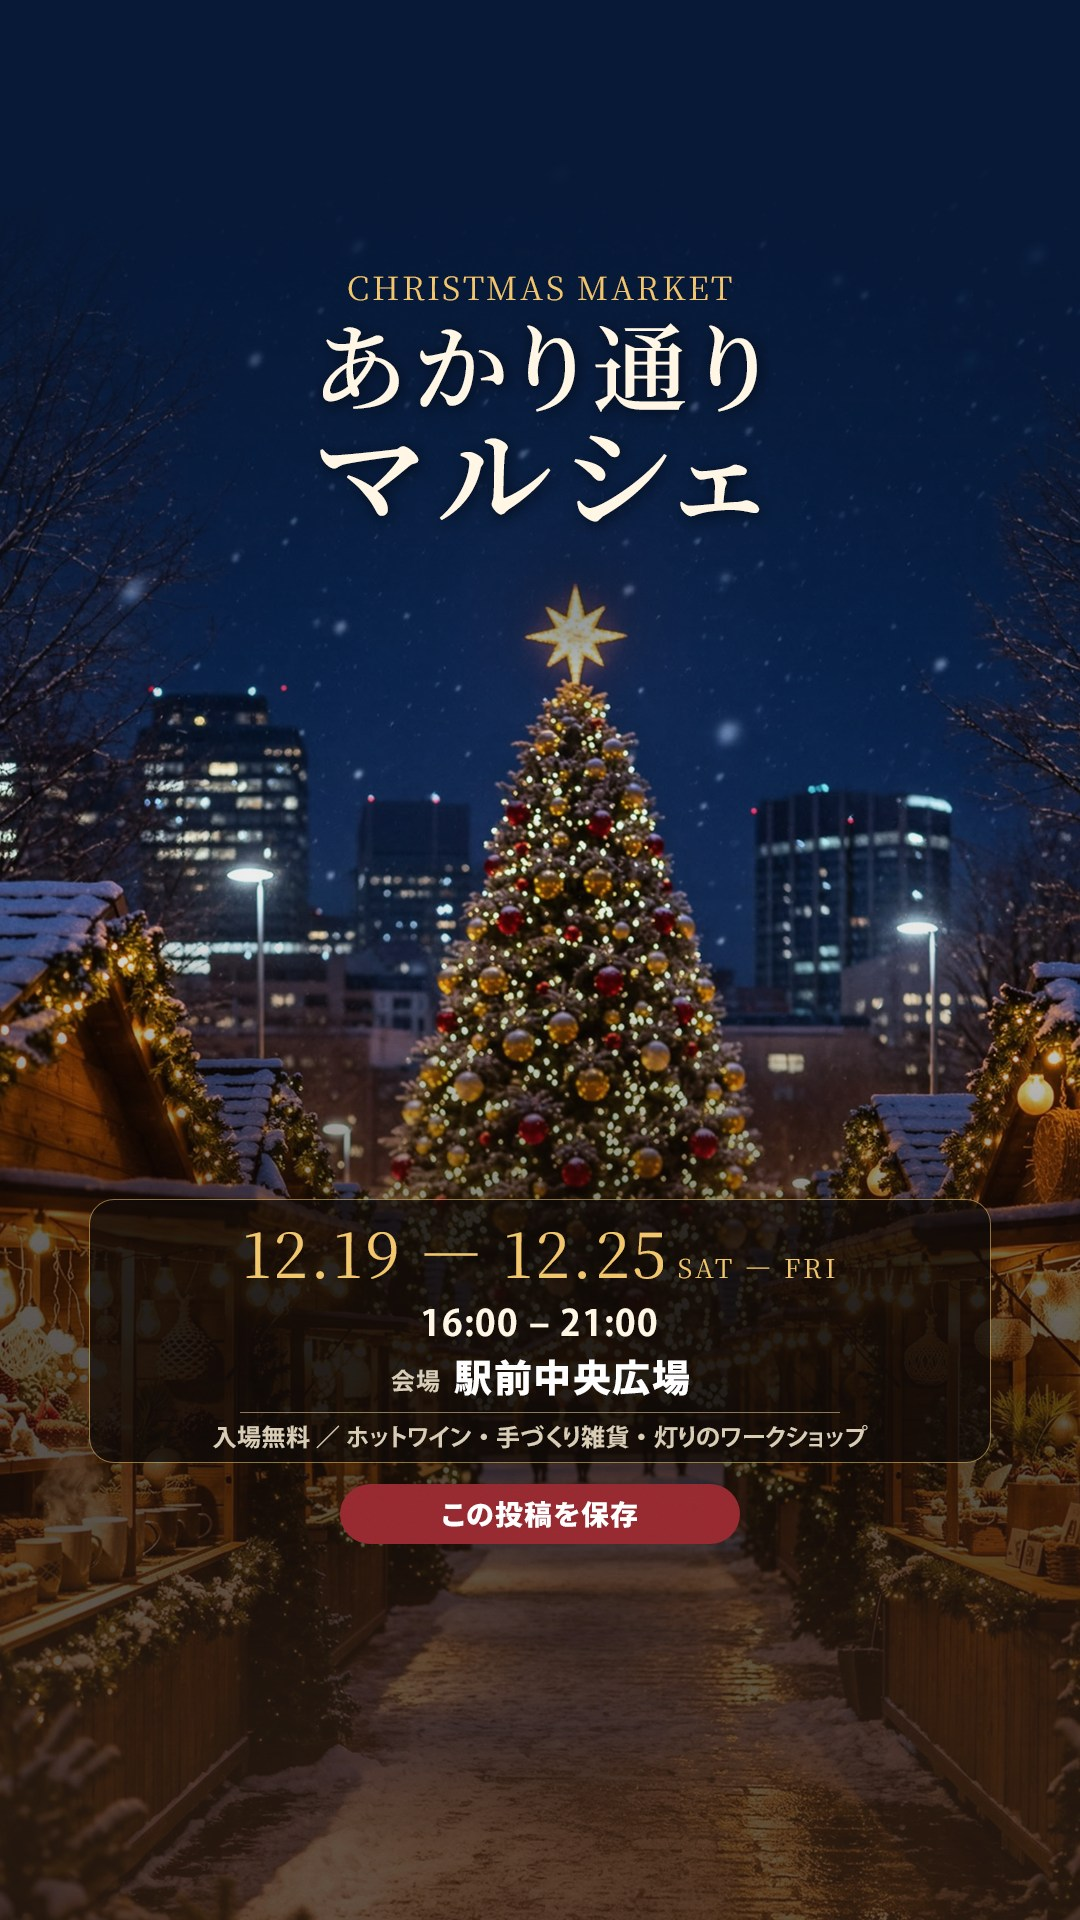
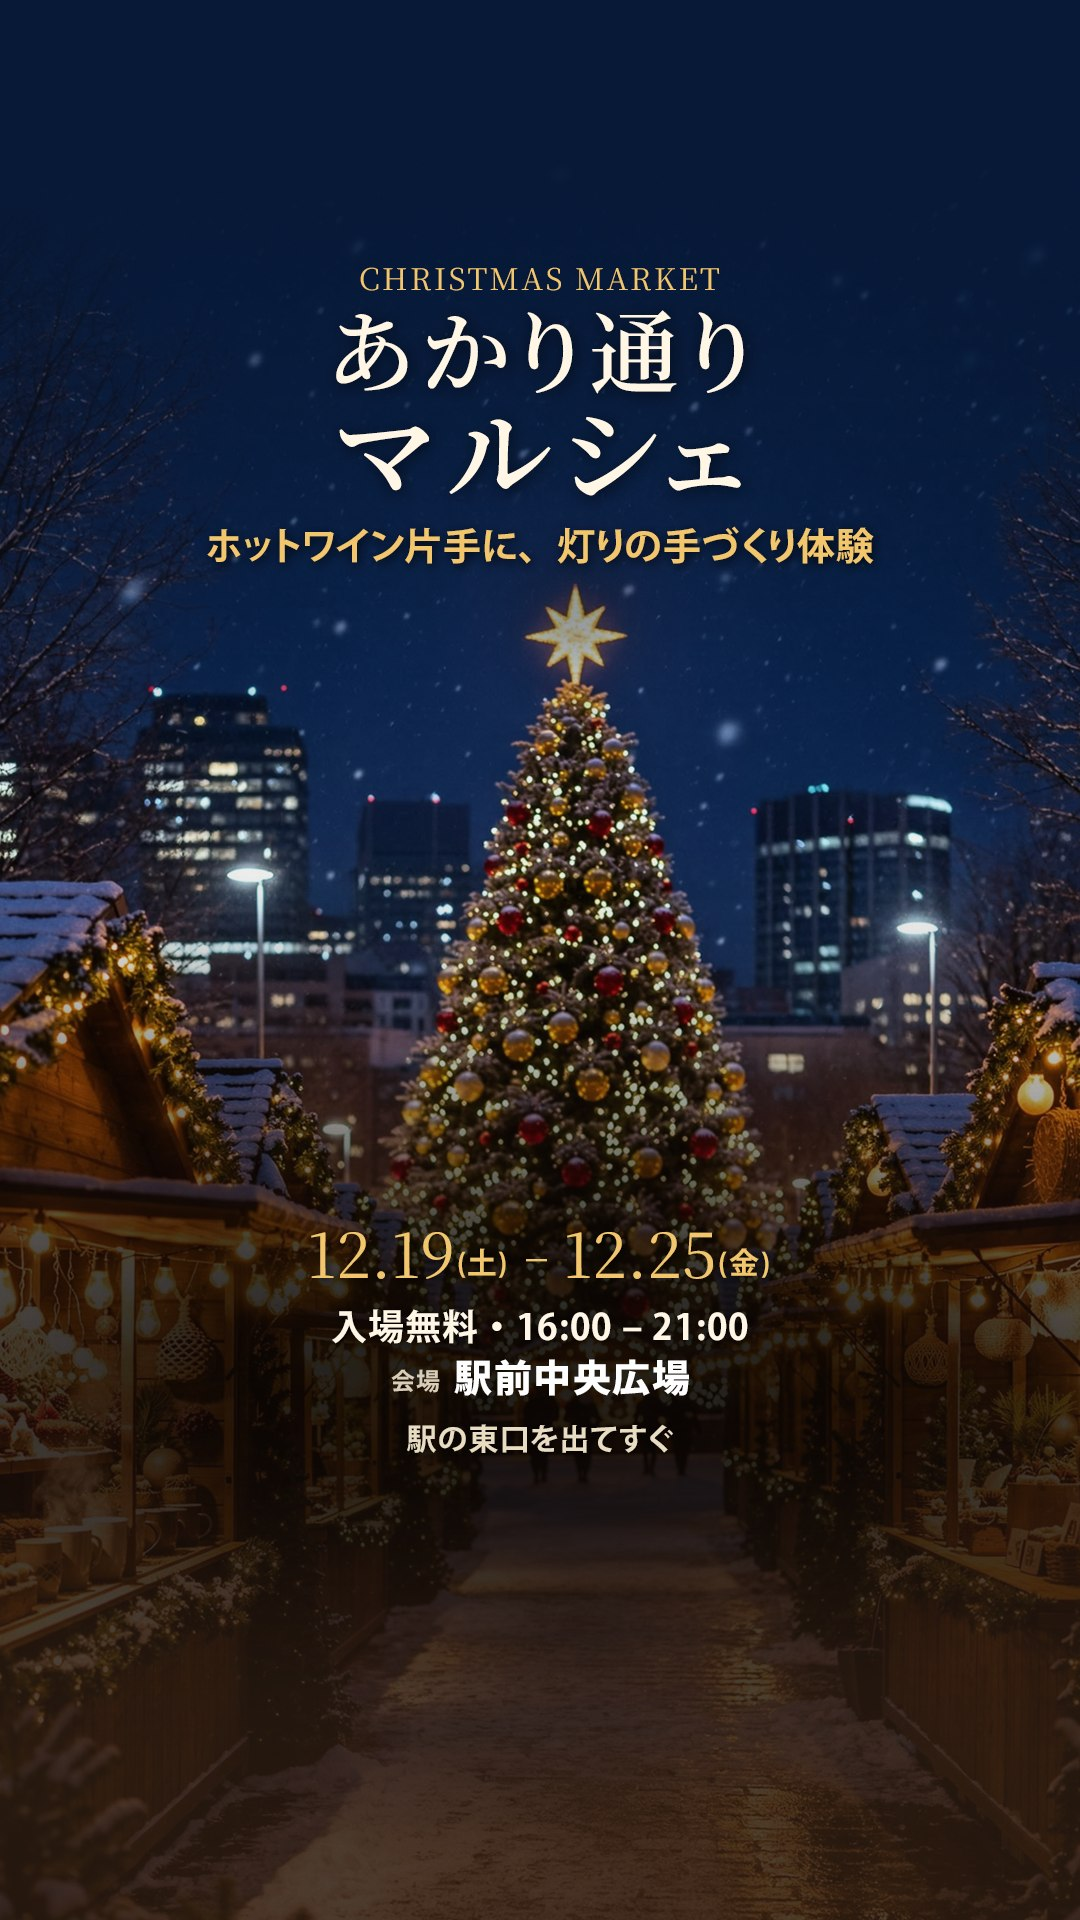
Portfolio remake 4: market story v5 (87.5), experience line, date with weekdays, no fake button; site swapped locally

Changed region(s): [[0.0, 0.5938, 1.0, 0.875], [0.1833, 0.125, 0.825, 0.3125]]

diff --git a/index.html b/index.html
@@ -372,7 +372,7 @@ html.noanim .reveal{ opacity:1; transform:none; transition:none; }
       <article class="work post" data-cat="ig"><button class="pic" type="button"><img src="img/salon.jpg" alt="美容室の冬のキャンペーン告知のインスタ投稿" loading="lazy"></button>
         <div class="cap"><span class="tag">POST ／ 4:5</span><h3>美容室のキャンペーン告知</h3><p>モデル写真を主役に、文字は顔や髪にかからない位置へ。メニュー → 価格 → 期限 → 予約方法の順に読めます。</p></div></article>
       <article class="work story" data-cat="ig"><button class="pic" type="button"><img src="img/story.jpg" alt="クリスマスマーケットの告知のインスタストーリーズ" loading="lazy"></button>
-        <div class="cap"><span class="tag">STORIES ／ 9:16</span><h3>マーケットの告知</h3><p>上下の表示に隠れない位置に、日時・会場を置きました。</p></div></article>
+        <div class="cap"><span class="tag">STORIES ／ 9:16</span><h3>マーケットの告知</h3><p>タイトルのすぐ下に「何を楽しめるか」を一文で。日時・入場無料・会場は、上下の表示に隠れない位置にまとめました。</p></div></article>
       <div class="work ptext" data-cat="ig"><div class="note reveal"><h4>インスタで気をつけていること</h4><p>投稿は一覧で切り取られても主役が見えるように、ストーリーズは画面の上下に重なるアイコンや返信欄をよけて文字を置きます。</p>
         <ul><li>投稿<b>1080×1350</b></li><li>ストーリーズ<b>1080×1920</b></li><li>カルーセル<b>最大10枚まで対応</b></li></ul></div></div>
 
